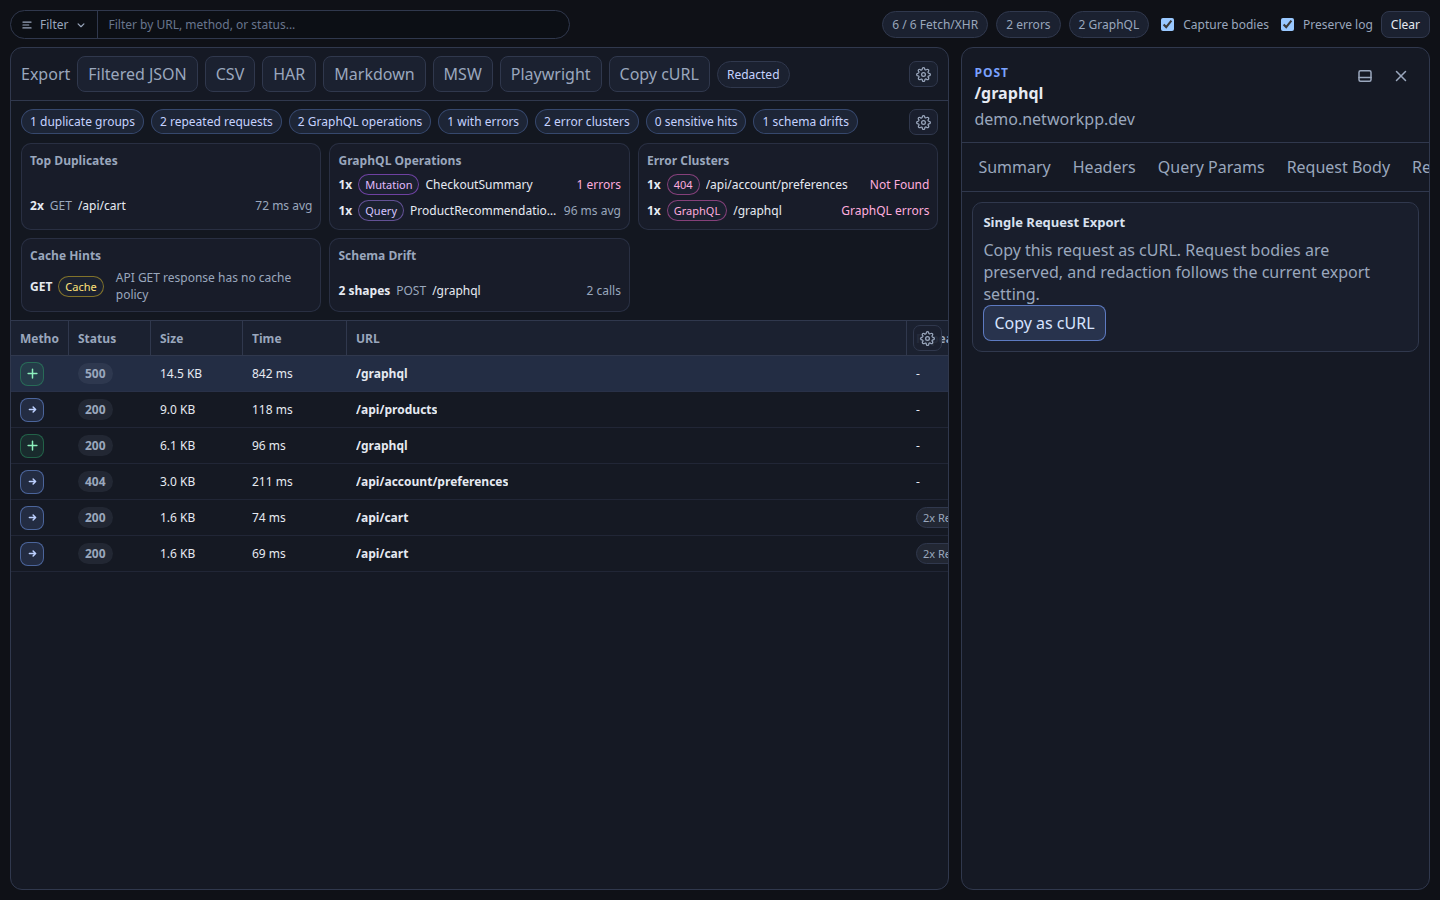
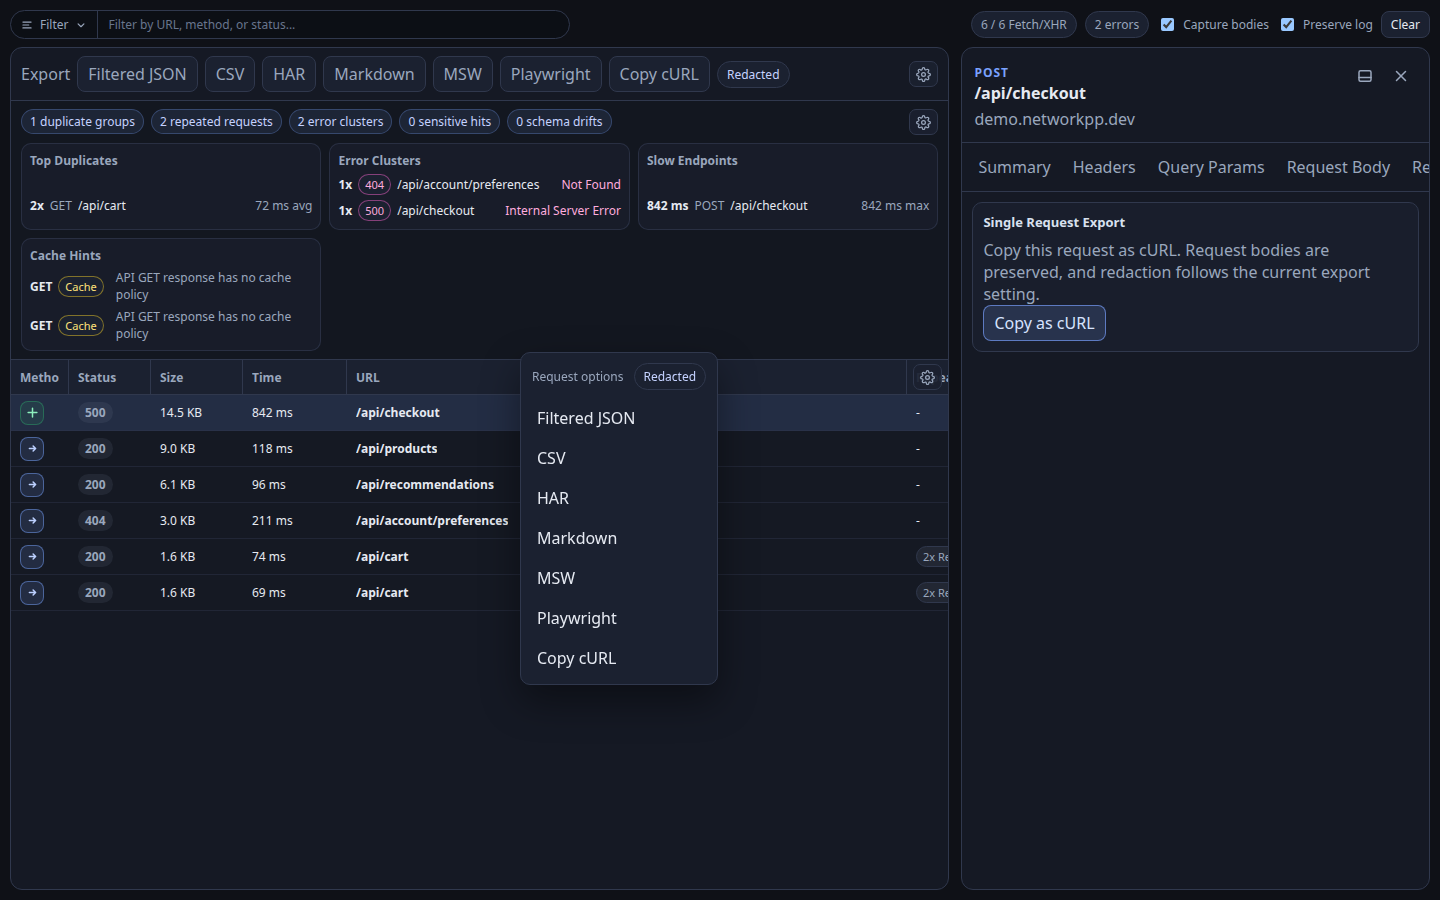
wip

diff --git a/src/ui/screenshot-fixtures.ts b/src/ui/screenshot-fixtures.ts
@@ -4,13 +4,13 @@ const baseTime = Date.UTC(2026, 5, 12, 9, 30, 0);
 
 export const screenshotRequests: NetworkRequest[] = [
   {
-    id: 'demo-graphql-checkout-error',
-    url: 'https://demo.networkpp.dev/graphql',
+    id: 'demo-checkout-timeout',
+    url: 'https://demo.networkpp.dev/api/checkout',
     method: 'POST',
     status: 500,
     statusText: 'Internal Server Error',
     domain: 'demo.networkpp.dev',
-    path: '/graphql',
+    path: '/api/checkout',
     queryParams: {},
     requestHeaders: {
       'content-type': 'application/json',
@@ -21,17 +21,18 @@ export const screenshotRequests: NetworkRequest[] = [
     },
     requestBody: JSON.stringify(
       {
-        operationName: 'CheckoutSummary',
-        query: 'mutation CheckoutSummary($cartId: ID!) { checkout(cartId: $cartId) { total items { sku quantity } } }',
-        variables: { cartId: 'cart_demo_123' }
+        cartId: 'cart_demo_123',
+        paymentMethod: 'test_card',
+        shippingMethod: 'standard'
       },
       null,
       2
     ),
     responseBody: JSON.stringify(
       {
-        errors: [{ message: 'Checkout service timed out after 800ms', path: ['checkout'] }],
-        data: { checkout: null }
+        error: 'Checkout service timed out after 800ms',
+        code: 'CHECKOUT_TIMEOUT',
+        retryable: true
       },
       null,
       2
@@ -43,14 +44,7 @@ export const screenshotRequests: NetworkRequest[] = [
     sizeBytes: 14820,
     cached: false,
     failed: true,
-    tags: ['graphql', 'failed', 'server-error', 'slow'],
-    graphql: {
-      operationType: 'mutation',
-      operationName: 'CheckoutSummary',
-      query: 'mutation CheckoutSummary($cartId: ID!) { checkout(cartId: $cartId) { total items { sku quantity } } }',
-      variables: { cartId: 'cart_demo_123' },
-      errors: [{ message: 'Checkout service timed out after 800ms', path: ['checkout'] }]
-    },
+    tags: ['failed', 'server-error', 'slow'],
     timing: {
       blocked: 3,
       dns: 12,
@@ -85,25 +79,16 @@ export const screenshotRequests: NetworkRequest[] = [
   },
   {
     id: 'demo-recommendations',
-    url: 'https://demo.networkpp.dev/graphql',
-    method: 'POST',
+    url: 'https://demo.networkpp.dev/api/recommendations?sku=demo-sku',
+    method: 'GET',
     status: 200,
     statusText: 'OK',
     domain: 'demo.networkpp.dev',
-    path: '/graphql',
-    queryParams: {},
-    requestHeaders: { 'content-type': 'application/json' },
+    path: '/api/recommendations',
+    queryParams: { sku: ['demo-sku'] },
+    requestHeaders: { accept: 'application/json' },
     responseHeaders: { 'content-type': 'application/json' },
-    requestBody: JSON.stringify(
-      {
-        operationName: 'ProductRecommendations',
-        query: 'query ProductRecommendations($sku: ID!) { recommendations(sku: $sku) { sku name } }',
-        variables: { sku: 'demo-sku' }
-      },
-      null,
-      2
-    ),
-    responseBody: JSON.stringify({ data: { recommendations: [{ sku: 'demo-related', name: 'Related demo item' }] } }, null, 2),
+    responseBody: JSON.stringify({ recommendations: [{ sku: 'demo-related', name: 'Related demo item' }] }, null, 2),
     mimeType: 'application/json',
     resourceType: 'fetch',
     startTime: baseTime + 240,
@@ -111,14 +96,7 @@ export const screenshotRequests: NetworkRequest[] = [
     sizeBytes: 6240,
     cached: false,
     failed: false,
-    tags: ['graphql', 'success'],
-    graphql: {
-      operationType: 'query',
-      operationName: 'ProductRecommendations',
-      query: 'query ProductRecommendations($sku: ID!) { recommendations(sku: $sku) { sku name } }',
-      variables: { sku: 'demo-sku' },
-      data: { recommendations: [{ sku: 'demo-related', name: 'Related demo item' }] }
-    },
+    tags: ['success'],
     timing: { blocked: 1, dns: 4, connect: 7, ssl: 6, send: 2, wait: 66, receive: 10 }
   },
   {

diff --git a/src/ui/screenshot-main.tsx b/src/ui/screenshot-main.tsx
@@ -24,10 +24,10 @@ const mockChromeApis = () => {
     sensitiveFieldNames: ['authorization', 'cookie', 'set-cookie', 'token', 'password', 'email'],
     savedFilters: [
       { id: 'errors-only', name: 'Errors only', query: 'status:>=400' },
-      { id: 'graphql-traffic', name: 'GraphQL traffic', query: 'graphql:true' },
-      { id: 'slow-api-calls', name: 'Slow API calls', query: 'status:>=400 method:POST' }
+      { id: 'slow-posts', name: 'Slow POSTs', query: 'status:>=400 method:POST' },
+      { id: 'cart-requests', name: 'Cart requests', query: 'path:/api/cart' }
     ],
-    recentSearches: ['status:>=400 method:POST graphql:true', 'domain:demo.networkpp.dev']
+    recentSearches: ['status:>=400 method:POST', 'domain:demo.networkpp.dev']
   };
 
   const chromeHost = globalThis as unknown as { chrome?: ScreenshotChromeApi };
@@ -67,19 +67,35 @@ const setTopFilter = (value: string) => {
   input.dispatchEvent(new Event('input', { bubbles: true }));
 };
 
+const openRequestContextMenu = () => {
+  const row = document.querySelector<HTMLElement>('.request-row.active') ?? document.querySelector<HTMLElement>('.request-row');
+  if (!row) return;
+
+  row.dispatchEvent(
+    new MouseEvent('contextmenu', {
+      bubbles: true,
+      cancelable: true,
+      clientX: 520,
+      clientY: 352,
+      button: 2
+    })
+  );
+};
+
 const prepareView = () => {
   if (screenshotView === 'filters') {
     setTopFilter('status:>=400 method:POST');
     return;
   }
 
-  if (screenshotView === 'graphql') {
-    clickButtonByText('GraphQL');
+  if (screenshotView === 'details') {
+    clickButtonByText('Headers');
     return;
   }
 
   if (screenshotView === 'exports') {
     clickButtonByText('Export');
+    window.setTimeout(openRequestContextMenu, 100);
   }
 };
 
@@ -88,8 +104,8 @@ document.documentElement.dataset.screenshotView = screenshotView;
 
 useRequestsStore.setState({
   requests: screenshotRequests,
-  activeRequestId: 'demo-graphql-checkout-error',
-  selectedIds: new Set(['demo-graphql-checkout-error']),
+  activeRequestId: 'demo-checkout-timeout',
+  selectedIds: new Set(['demo-checkout-timeout']),
   paused: false
 });
 

diff --git a/docs/index.html b/docs/index.html
@@ -87,15 +87,15 @@
         <div class="gallery">
           <figure>
             <img src="assets/screenshots/filters.png" alt="Network++ filtering screenshot" />
-            <figcaption>Filter by status, method, domain, path, GraphQL state, and saved searches.</figcaption>
+            <figcaption>Filter regular API traffic by status, method, domain, path, and saved searches.</figcaption>
           </figure>
           <figure>
-            <img src="assets/screenshots/graphql.png" alt="Network++ GraphQL inspection screenshot" />
-            <figcaption>Inspect GraphQL operations without digging through generic POST payloads.</figcaption>
+            <img src="assets/screenshots/details.png" alt="Network++ request details screenshot" />
+            <figcaption>Inspect headers, query params, request bodies, response bodies, timing, raw data, and exports.</figcaption>
           </figure>
           <figure>
             <img src="assets/screenshots/exports.png" alt="Network++ export workflow screenshot" />
-            <figcaption>Export redacted request data into debugging, documentation, mock, and test artifacts.</figcaption>
+            <figcaption>Right-click a request to export redacted JSON, CSV, HAR, Markdown, MSW, Playwright, or cURL artifacts.</figcaption>
           </figure>
         </div>
       </section>

diff --git a/src/ui/RequestDetails.tsx b/src/ui/RequestDetails.tsx
@@ -57,6 +57,9 @@ const TABS: Array<{ id: DetailsTab; label: string }> = [
   { id: 'export', label: 'Export' }
 ];
 
+const getVisibleTabs = (request: NetworkRequest): Array<{ id: DetailsTab; label: string }> =>
+  TABS.filter((tab) => tab.id !== 'graphql' || Boolean(request.graphql));
+
 const escapeRegExp = (value: string): string => value.replace(/[.*+?^${}()|[\]\\]/g, '\\$&');
 
 const codeHighlightStyle = HighlightStyle.define([
@@ -594,6 +597,7 @@ export const RequestDetails = ({ request, searchQuery, insightCount, layout, onT
     await copyText(exportRequestAsCurl(request, redaction));
   };
   const nextLayoutLabel = layout === 'bottom' ? 'Move details to right side' : 'Move details to bottom';
+  const visibleTabs = getVisibleTabs(request);
 
   return (
     <aside className="details-panel">
@@ -626,7 +630,7 @@ export const RequestDetails = ({ request, searchQuery, insightCount, layout, onT
       </header>
 
       <nav className="details-tabs" aria-label="Request detail tabs">
-        {TABS.map((tab) => (
+        {visibleTabs.map((tab) => (
           <button type="button" key={tab.id} className={tab.id === activeTab ? 'active' : ''} onClick={() => setActiveTab(tab.id)}>
             {tab.label}
           </button>

diff --git a/docs/screenshots.html b/docs/screenshots.html
@@ -35,12 +35,12 @@
           <p>Filter bar with a query like <code>status:&gt;=400 method:POST</code>, active chips, and saved filters.</p>
         </article>
         <article class="card">
-          <h3>graphql.png</h3>
-          <p>GraphQL request details with operation name, operation type, variables, and at least one timing or error example.</p>
+          <h3>details.png</h3>
+          <p>Regular request details with headers, request body, response body, timing, and export tabs.</p>
         </article>
         <article class="card">
           <h3>exports.png</h3>
-          <p>Export menu showing JSON, CSV, HAR, Markdown, MSW, Playwright, Copy cURL, and the redaction state.</p>
+          <p>Right-click request context menu showing JSON, CSV, HAR, Markdown, MSW, Playwright, Copy cURL, and the redaction state.</p>
         </article>
         <article class="card">
           <h3>Sample traffic</h3>

diff --git a/src/ui/App.tsx b/src/ui/App.tsx
@@ -460,7 +460,7 @@ export const App = () => {
         <div className="capture-metrics" aria-label="Capture metrics">
           <span>{visibleRequests.length} / {fetchXhrRequests.length} Fetch/XHR</span>
           <span>{failedCount} errors</span>
-          <span>{graphqlCount} GraphQL</span>
+          {graphqlCount > 0 ? <span>{graphqlCount} GraphQL</span> : null}
           <label className="toggle compact-toggle" title="Capture response bodies for new requests">
             <input
               type="checkbox"

diff --git a/src/ui/InsightsPanel.tsx b/src/ui/InsightsPanel.tsx
@@ -93,7 +93,7 @@ export const InsightsPanel = ({ insights }: InsightsPanelProps) => {
               <span>{insights.duplicateRequestCount} repeated requests</span>
             </>
           ) : null}
-          {isEnabled('graphql') ? (
+          {isEnabled('graphql') && insights.graphqlOperations.length > 0 ? (
             <>
               <span>{insights.graphqlOperations.length} GraphQL operations</span>
               <span>{insights.graphqlErrorOperationCount} with errors</span>

diff --git a/docs/screenshots.md b/docs/screenshots.md
@@ -6,8 +6,8 @@ Use this guide when refreshing the real product screenshots in `docs/assets/scre
 
 - `hero.png`: full DevTools window with the Network++ panel, populated request table, insights panel, and selected request details.
 - `filters.png`: filter bar with a structured query such as `status:>=400 method:POST`, active chips, saved filters, and recent searches.
-- `graphql.png`: GraphQL request details with operation name, operation type, variables, and at least one error or timing example.
-- `exports.png`: export menu showing JSON, CSV, HAR, Markdown, MSW, Playwright, Copy cURL, and the redaction state.
+- `details.png`: regular request details with headers, request body, response body, timing, and export tabs.
+- `exports.png`: right-click request context menu showing JSON, CSV, HAR, Markdown, MSW, Playwright, Copy cURL, and the redaction state.
 - Current screenshots are captured from the screenshot harness at `entrypoints/screenshot.html`, which renders the real app with safe synthetic request data from `src/ui/screenshot-fixtures.ts`.
 
 ## Sample Traffic
@@ -16,7 +16,7 @@ Use non-sensitive local or demo traffic. Good sources:
 
 - A local demo API.
 - A public test API with no credentials.
-- A small app fixture that triggers successful, failed, slow, cached, duplicate, and GraphQL-like requests.
+- A small app fixture that triggers successful, failed, slow, cached, and duplicate regular API requests.
 
 Avoid production domains, real tokens, real customer data, private URLs, cookies, email addresses, and internal service names.
 

diff --git a/README.md b/README.md
@@ -31,8 +31,6 @@ Network++ captures requests from the inspected tab while DevTools is open, then 
 
 GraphQL traffic is detected and surfaced with operation details, operation type, variables, errors, and repeated operation insights so API debugging does not get buried inside generic POST requests.
 
-![GraphQL inspection screenshot](docs/assets/screenshots/graphql.png)
-
 ### Actionable Network Insights
 
 The insights panel highlights duplicate request groups, GraphQL operations, error clusters, slow endpoints, sensitive data hints, cache opportunities, and schema drift signals.
@@ -45,6 +43,7 @@ Export all requests, filtered requests, or a selected request into formats that 
 - MSW handlers for mocked API workflows.
 - Playwright route fixtures for end-to-end tests.
 - Copy-as-cURL for quick terminal reproduction.
+- Right-click any request to open the request context menu with the same export options.
 
 ![Export workflow screenshot](docs/assets/screenshots/exports.png)
 
@@ -60,7 +59,7 @@ The repository includes screenshots captured from the real Network++ panel runni
 | --- | --- |
 | Full panel | ![Network++ panel](docs/assets/screenshots/hero.png) |
 | Filters | ![Network++ filters](docs/assets/screenshots/filters.png) |
-| GraphQL | ![Network++ GraphQL details](docs/assets/screenshots/graphql.png) |
+| Request details | ![Network++ request details](docs/assets/screenshots/details.png) |
 | Exports | ![Network++ exports](docs/assets/screenshots/exports.png) |
 
 ## Install From Source
